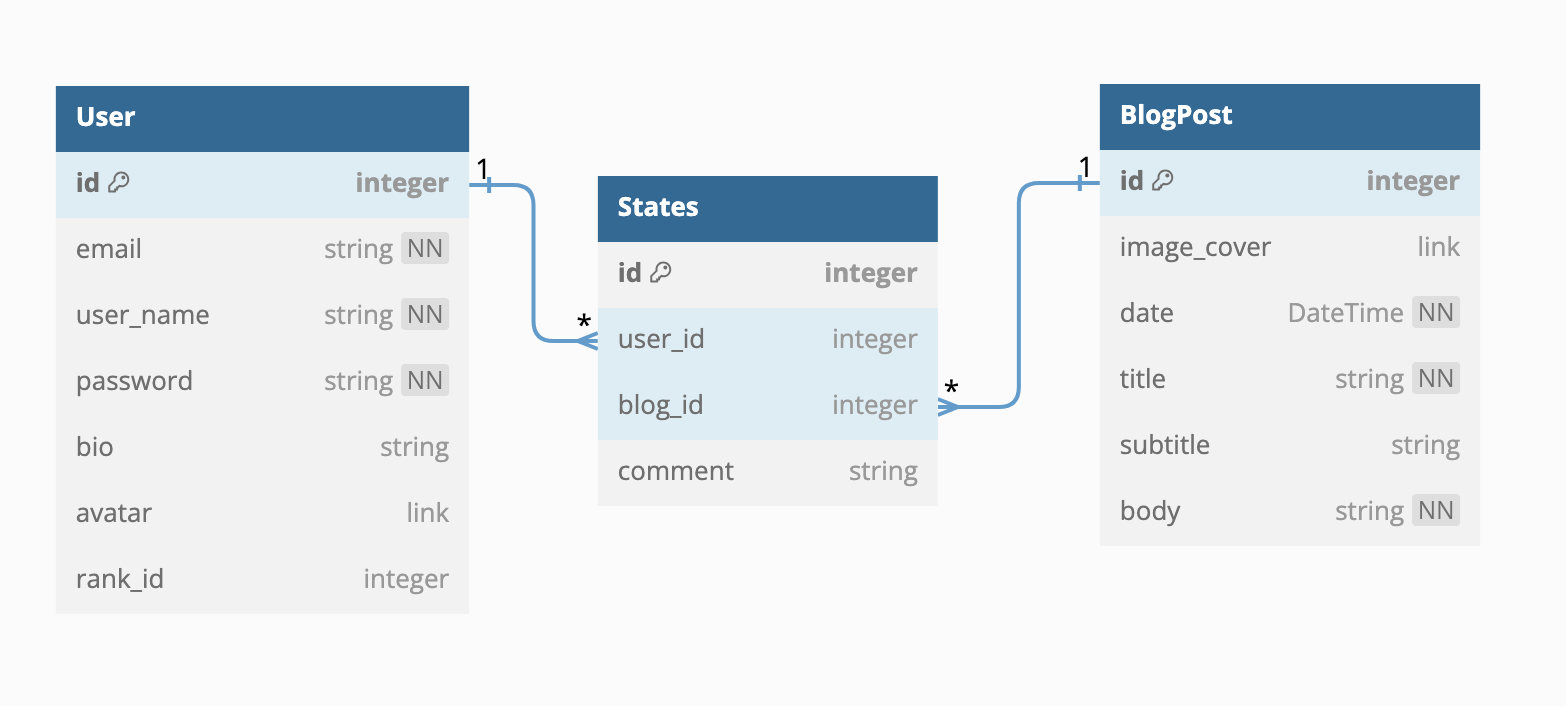
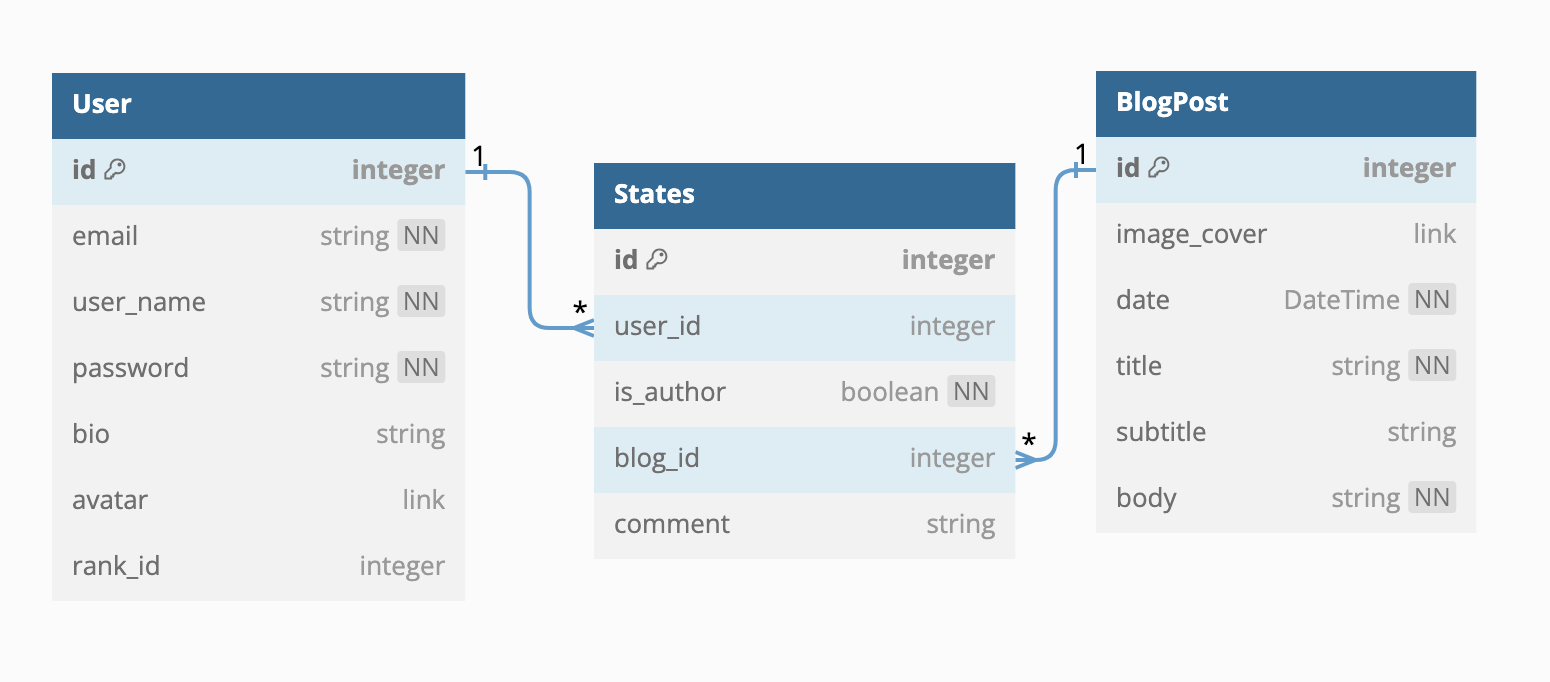
chỉnh sửa database phần State

diff --git a/templates/header.html b/templates/header.html
@@ -6,7 +6,7 @@
 -->
 <html>
 	<head>
-		<title>Blog</title>
+		<title>{% block title %}{% endblock %}</title>
 		<meta charset="utf-8" />
 		<meta name="viewport" content="width=device-width, initial-scale=1, user-scalable=no" />
 		<link rel="stylesheet" href="../static/assets/css/main.css" />

diff --git a/main.py b/main.py
@@ -2,28 +2,18 @@ from flask import Flask, redirect, url_for, render_template, request, session
 from datetime import timedelta
 from flask.helpers import flash
 from flask_sqlalchemy import SQLAlchemy
-from flask_migrate import Migrate
 from os import path
-
-from werkzeug.security import generate_password_hash, \
-    check_password_hash
-
-# import mysql.connector
-# from mysql.connector import errorcode
+from werkzeug.security import generate_password_hash, check_password_hash
 
 
 app = Flask(  __name__ )
 app.config["SECRET_KEY"] = "my-secret-key"
 app.config["SQLALCHEMY_DATABASE_URI"] = "sqlite:///user.db"
-# app.config["SQLALCHEMY_DATABASE_URI"] = "mysql+mysqlconnector://chuong:chuong@localhost/test"
-
 app.config["SQLALCHEMY_TRACK_MODIFICATIONS"] = False
 app.permanent_session_lifetime = timedelta(minutes=1)
 
 db = SQLAlchemy(app)
 
-
-# db.app = app
 
 class User(db.Model):
     # _tablename_ = 'users'
@@ -36,7 +26,7 @@ class User(db.Model):
     rank_id = db.Column(db.Integer)
     user_rela = db.relationship('States', backref=db.backref('user', lazy=True))
 
-    def __init__(self, user_name, email, password, bio, avatar=0, rank_id=0):
+    def __init__(self, user_name, email, password, bio, avatar=0, rank_id=2):
         self.user_name = user_name
         self.email = email
         self.password = generate_password_hash(password)
@@ -52,7 +42,7 @@ class States(db.Model):
     id = db.Column(db.Integer, primary_key=True)
     user_id = db.Column(db.Integer, db.ForeignKey('user.id'))
     blog_id = db.Column(db.Integer, db.ForeignKey('blog_post.id'))
-    comment = db.Column(db.String(1014))
+    comment = db.Column(db.Text)
 
 
 class BlogPost(db.Model):
@@ -61,14 +51,8 @@ class BlogPost(db.Model):
     date = db.Column(db.DateTime, nullable=False)
     title = db.Column(db.String(1014), nullable=False)
     subtitle = db.Column(db.String(1014))
-    body = db.Column(db.String(10845), nullable=False)
+    body = db.Column(db.Text, nullable=False)
     BlogPost_rela = db.relationship('States', backref=db.backref('BlogPost', lazy=True))
-
-
-with app.app_context():
-    if not path.exists("user.db"):
-        db.create_all()
-        print("Created database!")
 
 
 @app.route('/select/user')
@@ -82,17 +66,15 @@ def select():
     return html
 
 
-@app.route('/insert', methods=["GET"])
+# @app.route('/insert', methods=["GET"])
 def insert_test():
-    new_user = User('username1', 'trieuquoccuong321@gmail.com', '12345678', 'bio');
+    new_user = User('Admin', 'admin@gmail.com', '12345678', 'Admin');
     db.session.add(new_user)
     db.session.commit()
     return 'Da insert du lieu'
 
 
-@app.route('/test_checkpass')
 def check_pass():
-    # s = Session();
     user = User.query.filter_by(user_name='username1').first()
     if user:
         if user.check_password('12345678') == True:
@@ -101,3 +83,10 @@ def check_pass():
             return 'sai'
     else:
         return 'khong co username như v'
+
+
+with app.app_context():
+    if not path.exists("user.db"):
+        db.create_all()
+        insert_test()
+        print("Created database!")
